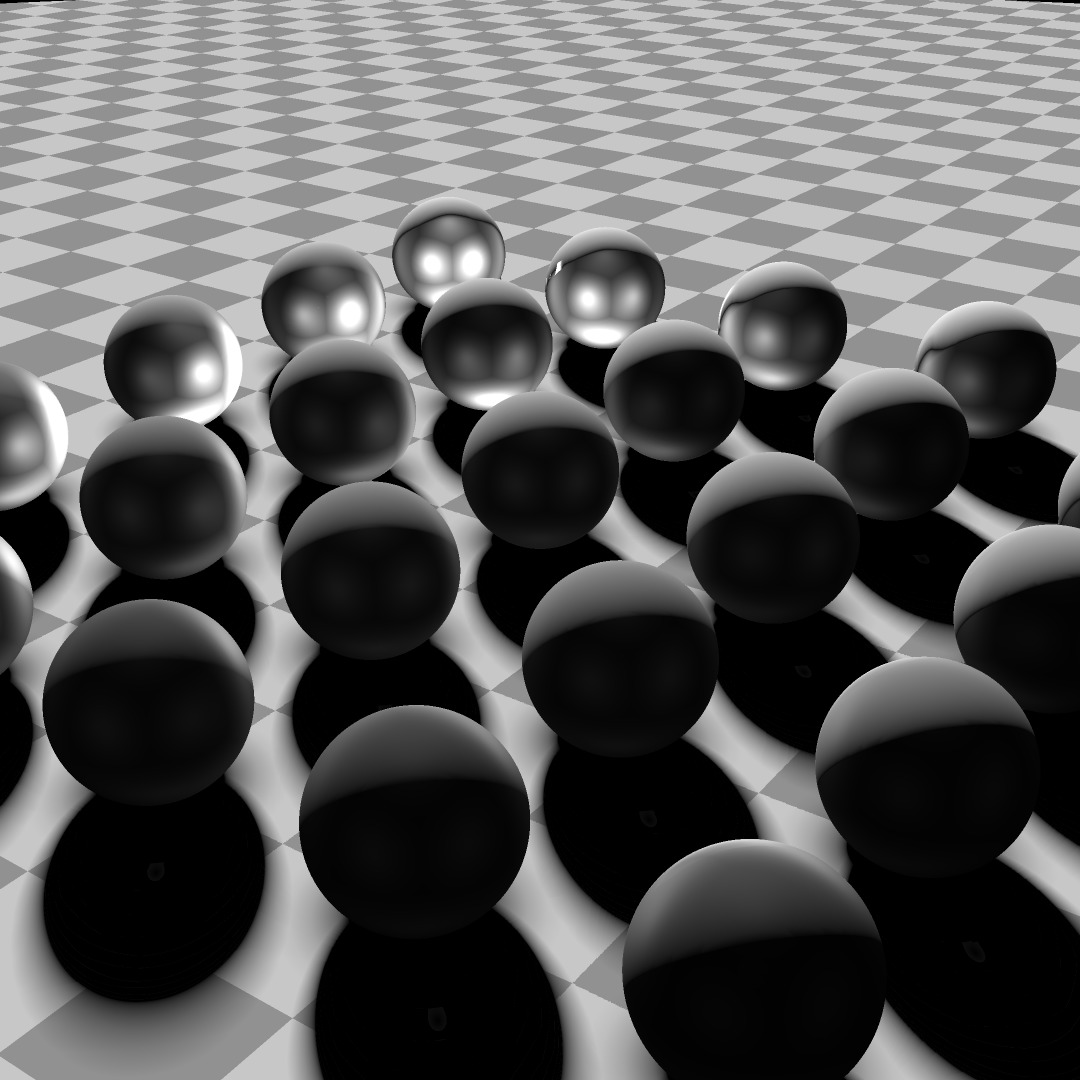
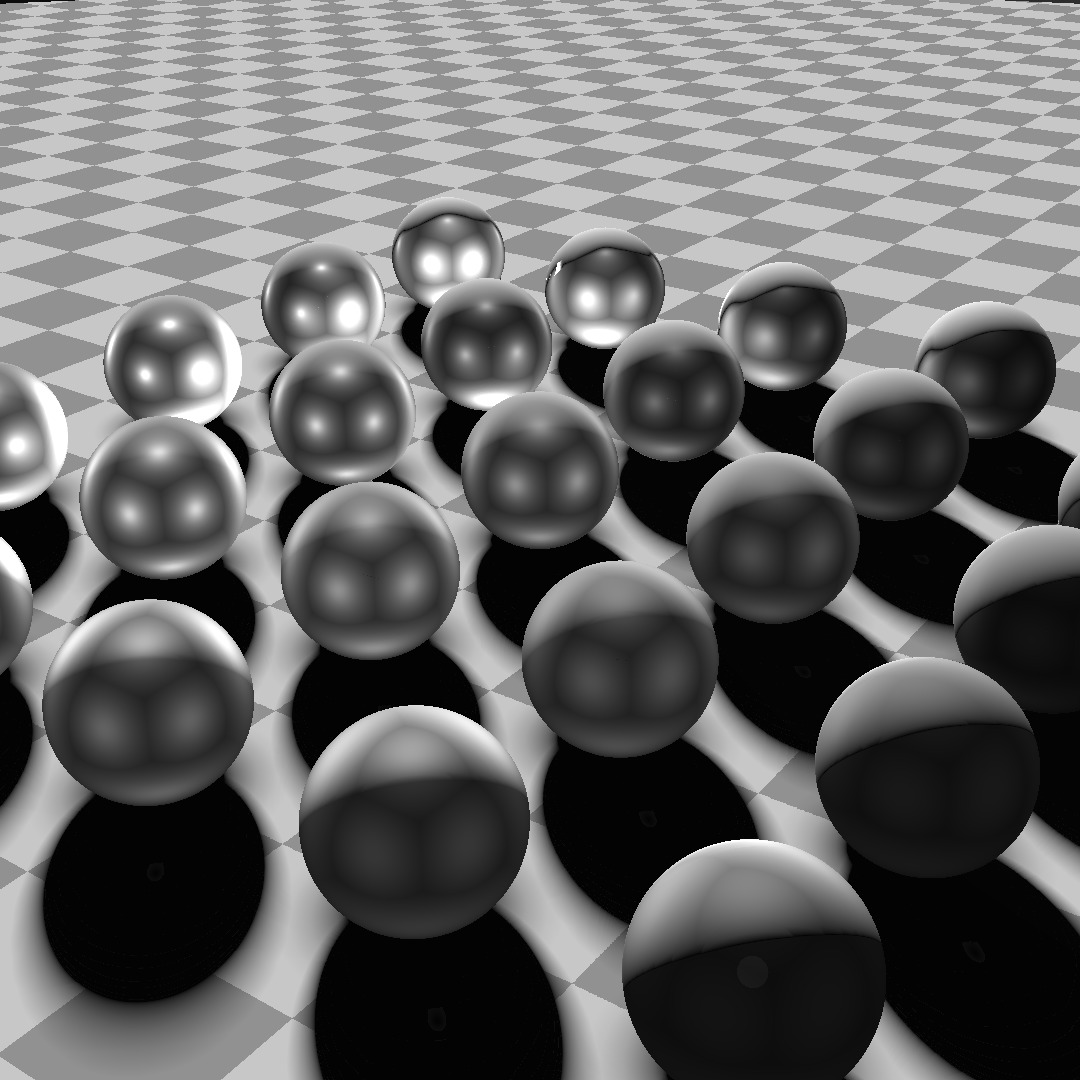
adding custom GLASS material

diff --git a/README.md b/README.md
@@ -69,3 +69,21 @@ glslViewer raymarching_pbr.frag -e camera_position,-29.5393,-26.2406,-42.1865 -C
 ```
 
 ![](images/raymarching_pbr_cubemap.jpg)
+
+
+#### Raymarching custom GLASS material
+
+```bash
+glslViewer raymarching_glass.frag -e camera_position,-29.5393,-26.2406,-42.1865 -l
+```
+
+![](images/raymarching_glass.jpg)
+
+
+#### Raymarching custom GLASS material with CUBEMAP
+
+```bash
+glslViewer raymarching_glass.frag -e camera_position,-29.5393,-26.2406,-42.1865 -C assets/uffizi_cross.hdr -l
+```
+
+![](images/raymarching_glass_cubemap.jpg)
